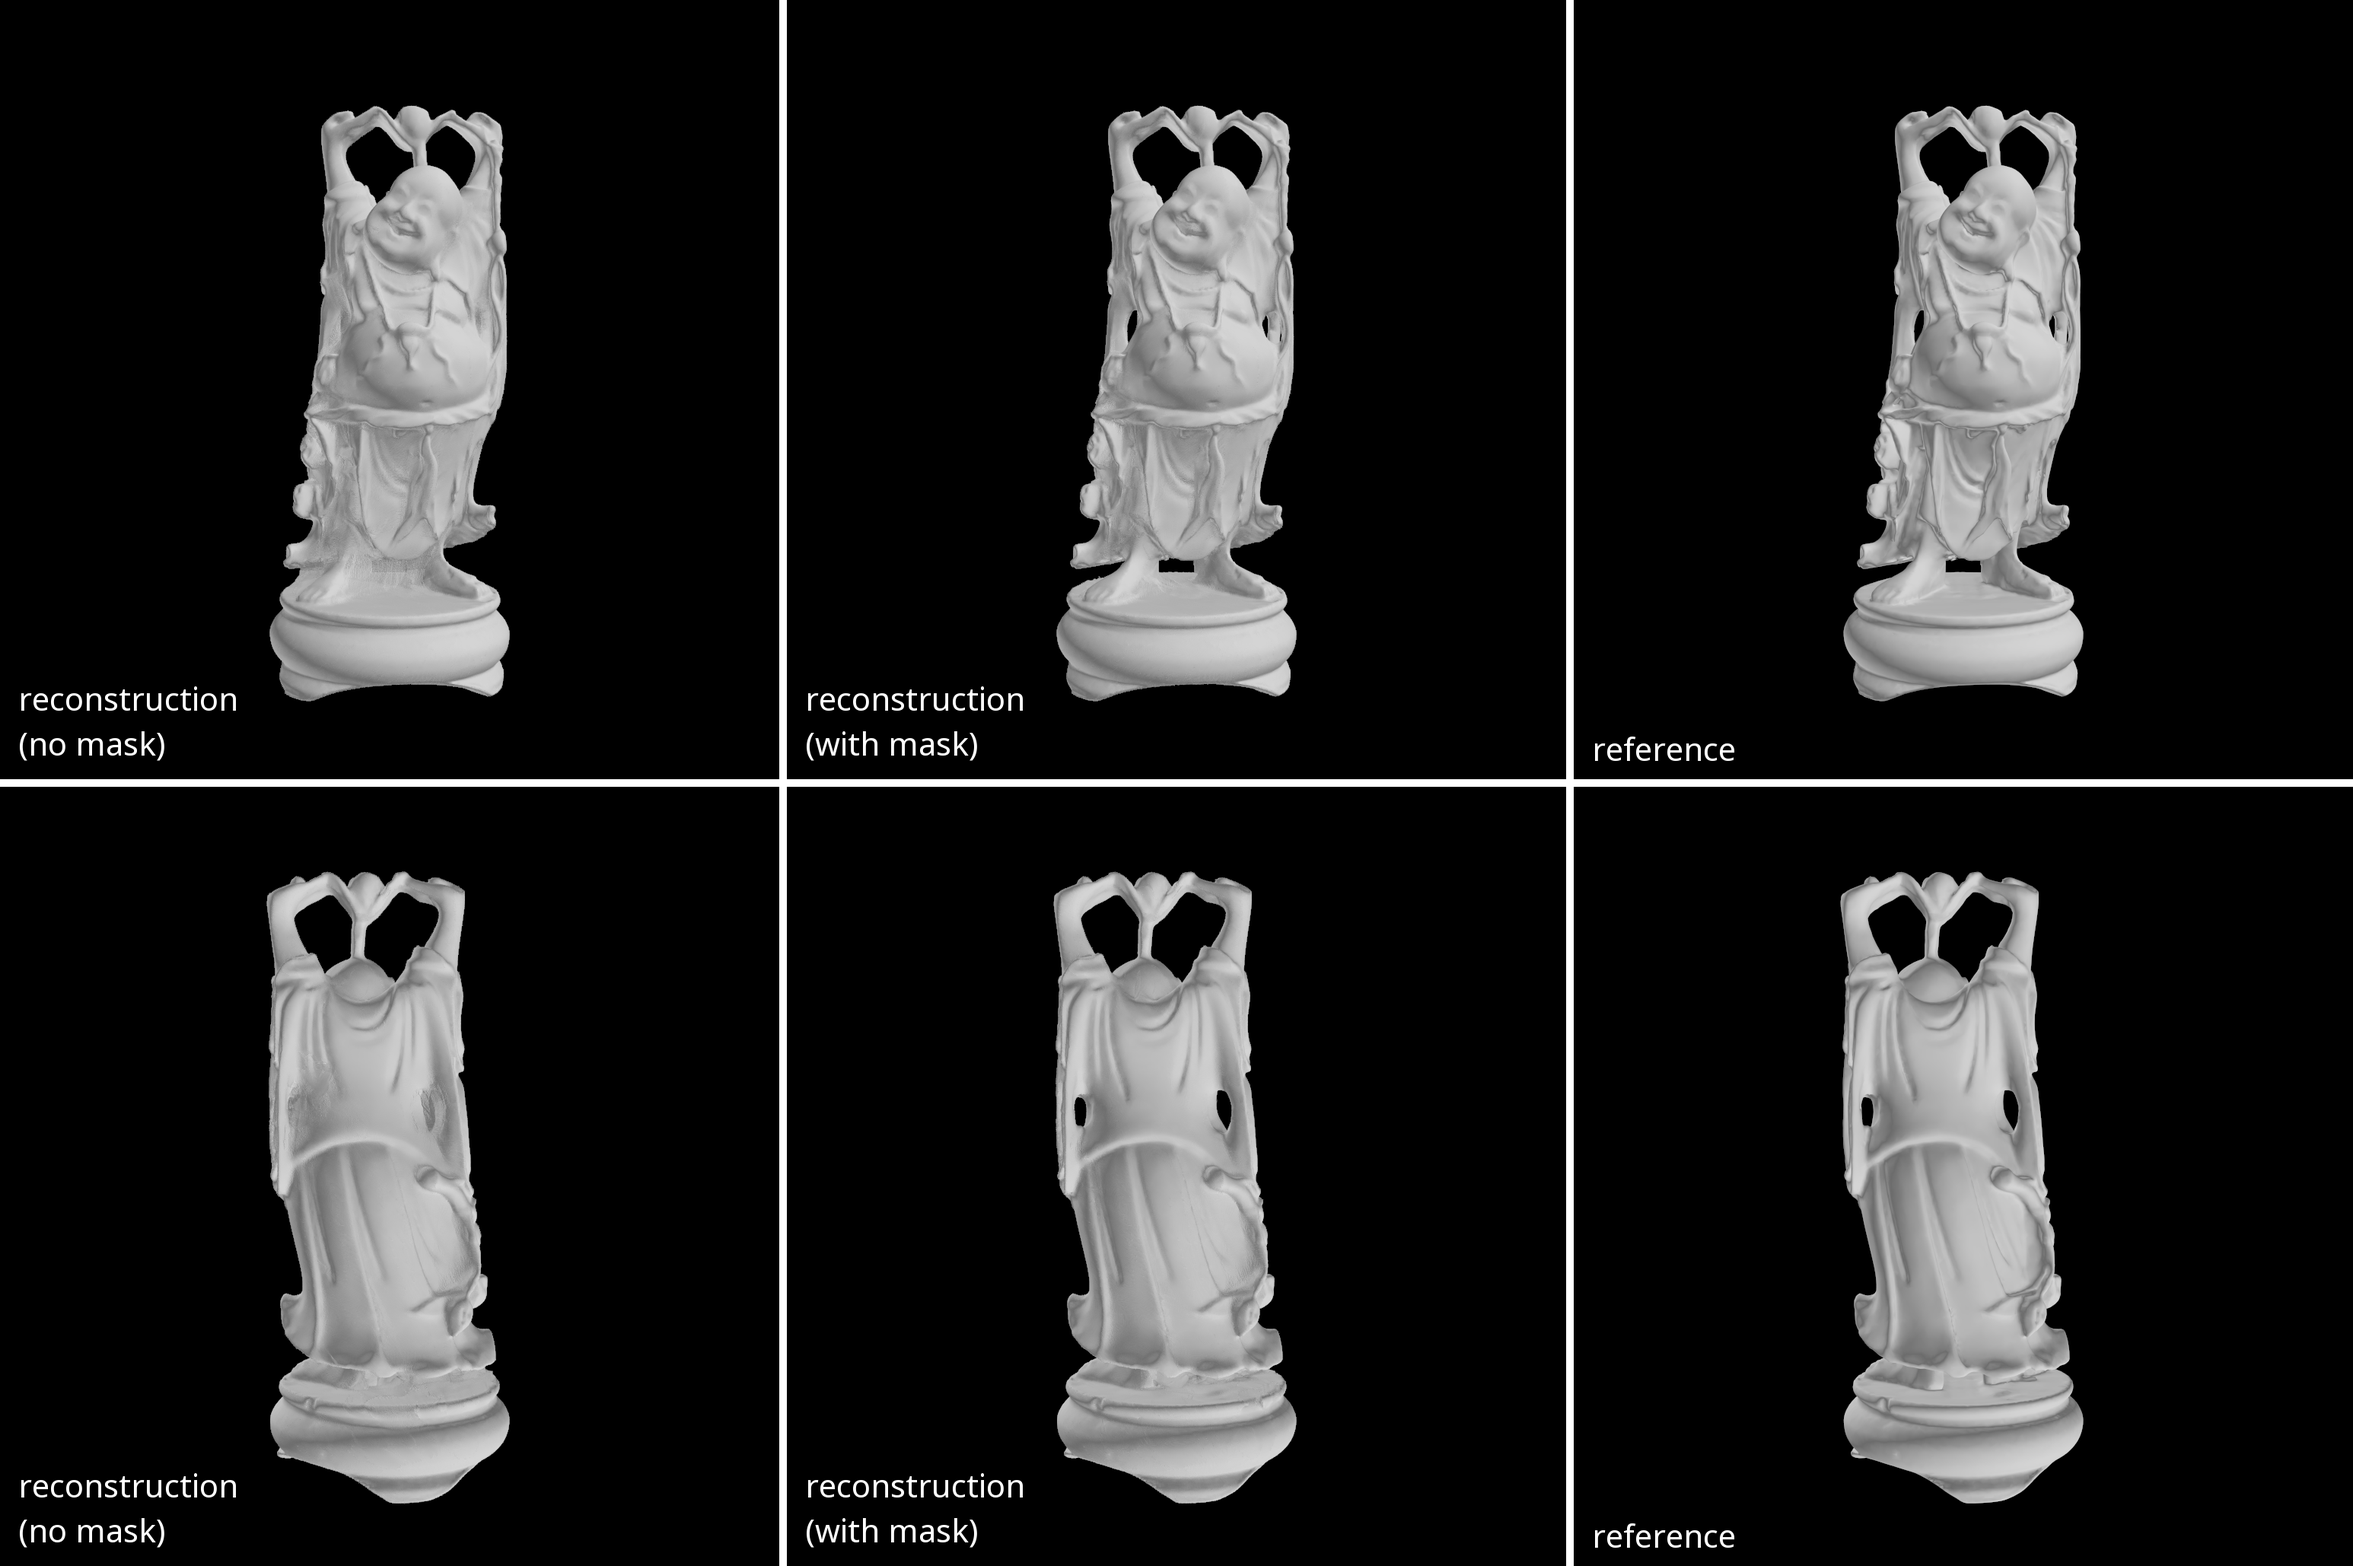
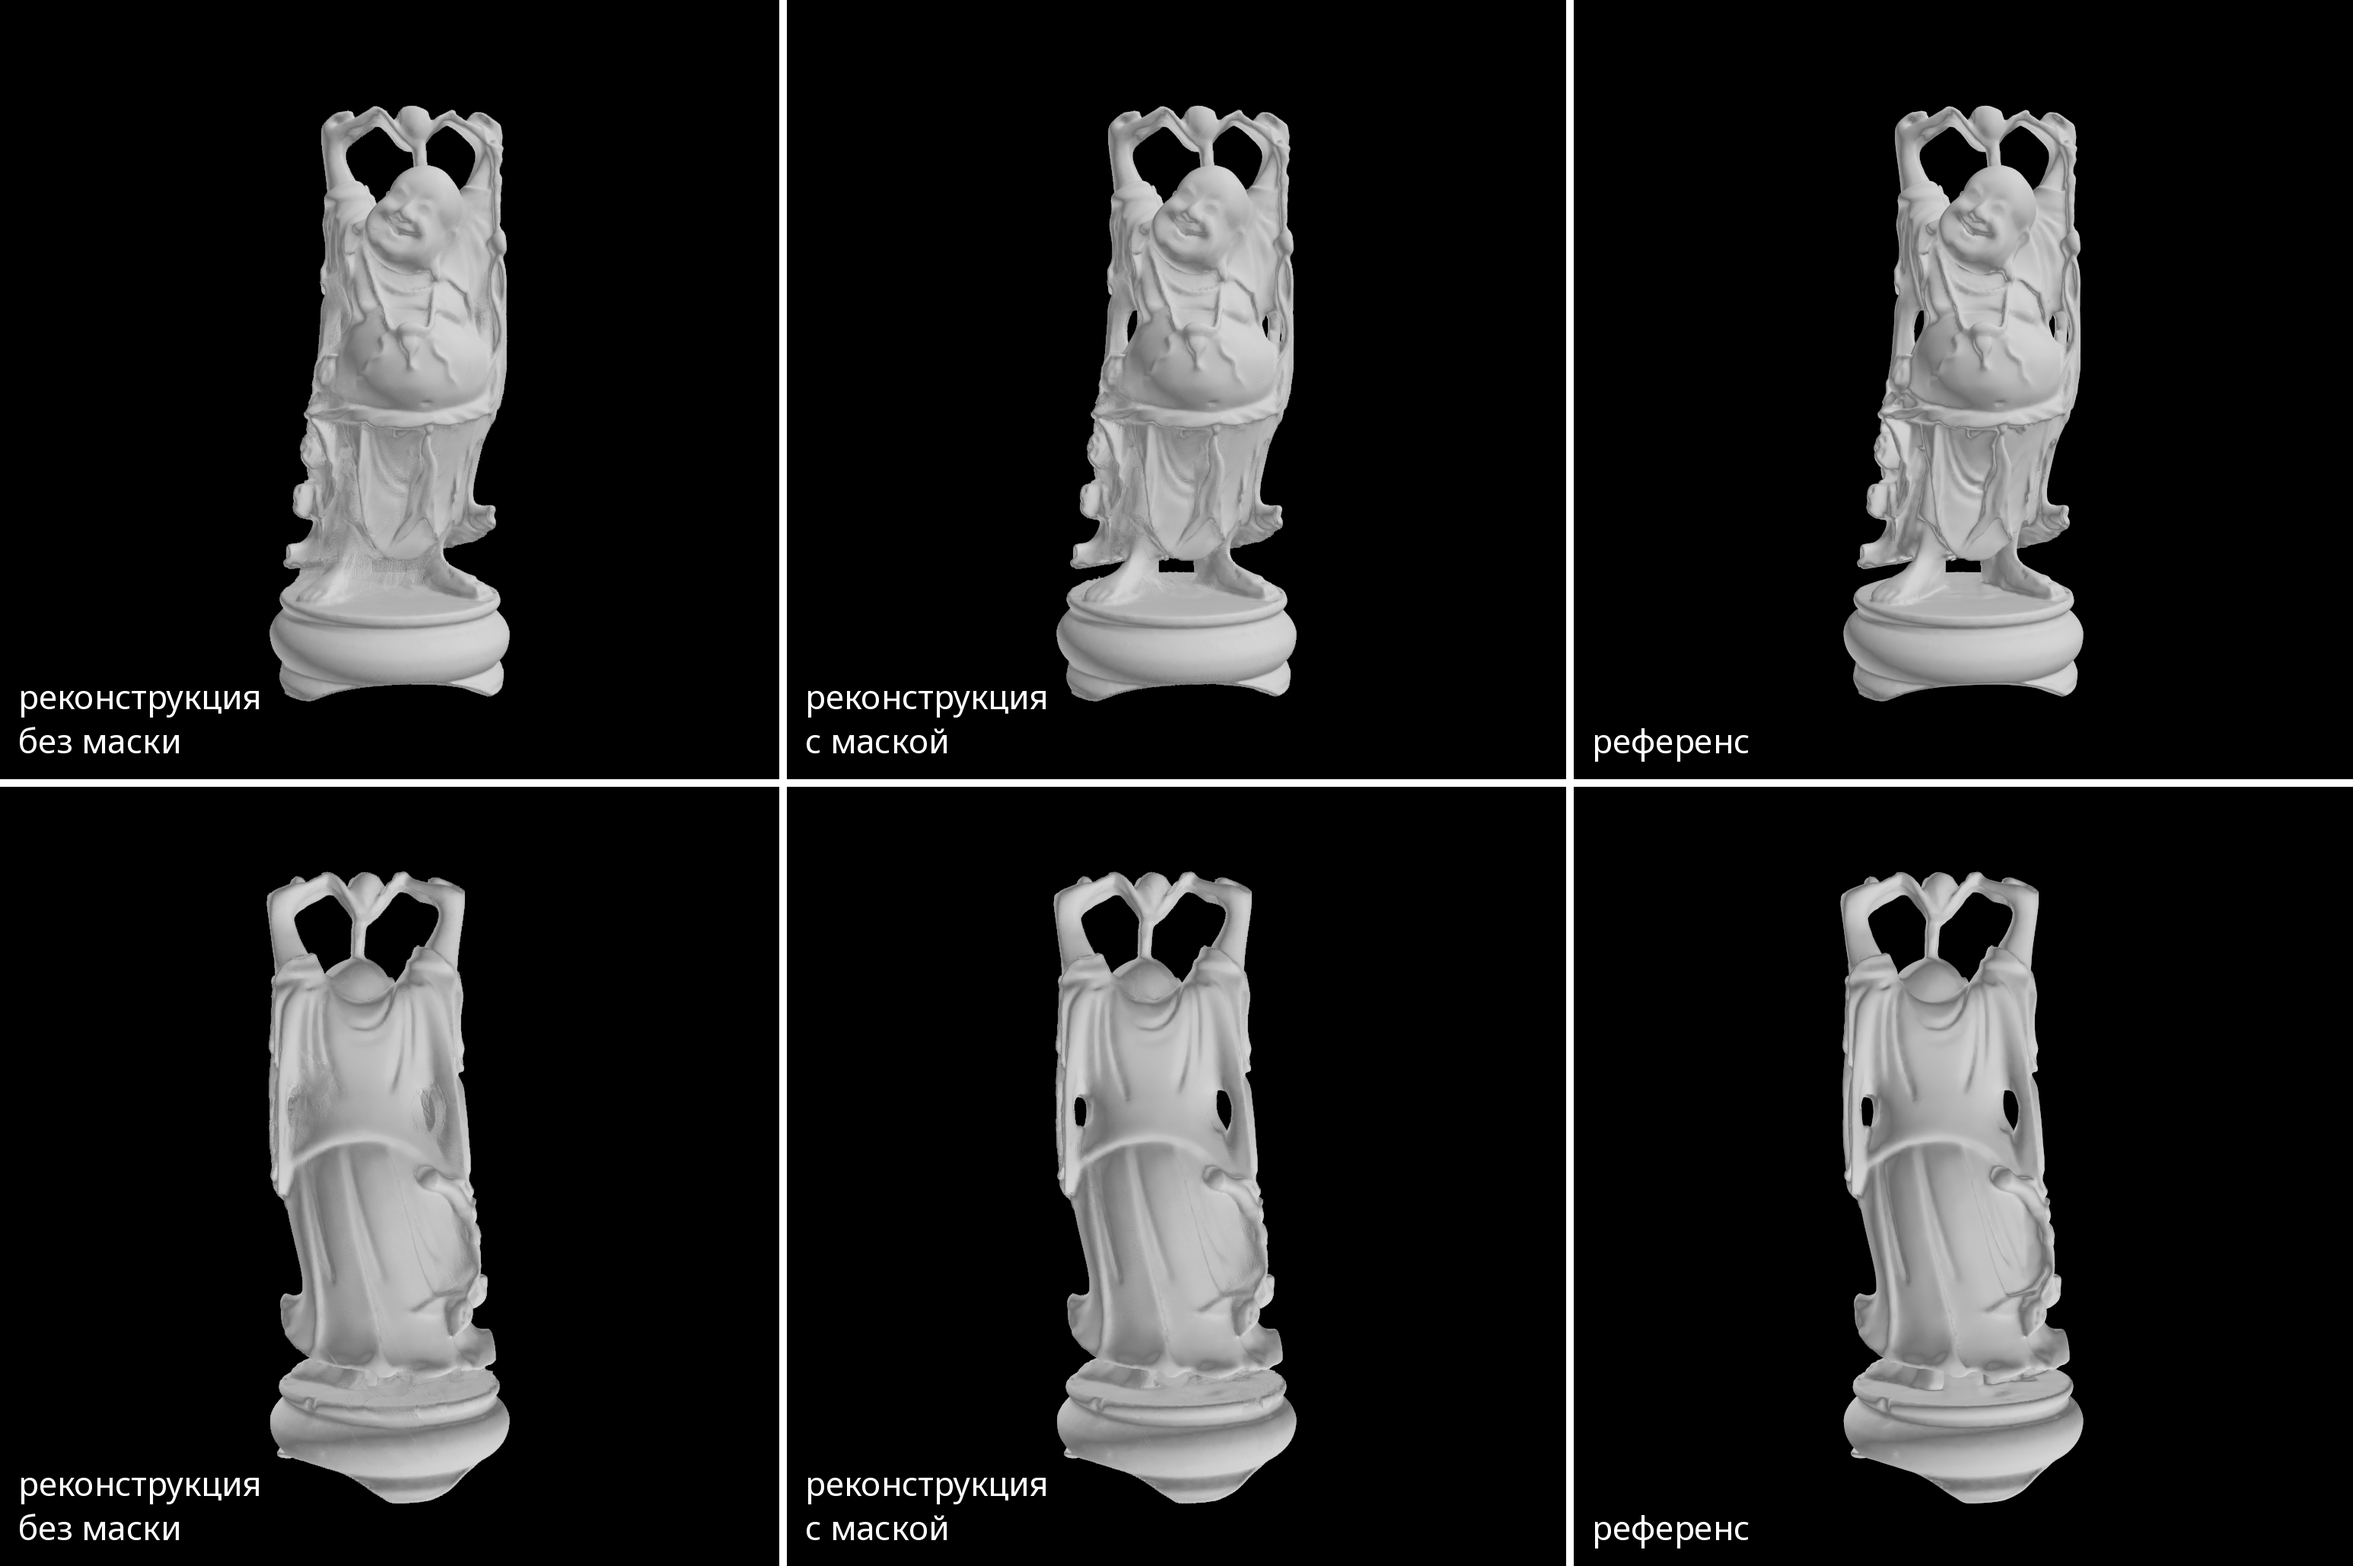
Русские подписи на коллажах с маской и разреживанием (рис. 9 и 10)

diff --git a/images/relabel_collages.py b/images/relabel_collages.py
@@ -1,0 +1,40 @@
+"""Russian labels on the collages of chapter 4 that have no source script (collage_mask.png, collage_sparsify.png):
+the English labels drawn in the bottom left corner of every 1024x1024 cell are painted over with the black background
+and the Russian ones are drawn with the same font (Noto Sans). The painted rectangles do not touch the models.
+The original images are in the git history of the report (commit 428c0c0). Usage: python relabel_collages.py
+"""
+from pathlib import Path
+
+from PIL import Image, ImageDraw, ImageFont
+
+OUT = Path(__file__).resolve().parent
+FONT = Path.home() / 'repos/papers/Труды ИСП РАН 2026/NotoSans-Regular.ttf'
+CELL, SEP = 1024, 10
+# image: (x extent of the painted rectangle in the cell, [labels per column, lines bottom to top in the same row])
+LABELS = {
+    'collage_mask.png': (340, [['без маски', 'реконструкция'], ['с маской', 'реконструкция'], ['референс']]),
+    'collage_sparsify.png': (1000, [['(разреживание между эпохами)', 'реконструкция'],
+                                    ['(разреживание и в течение эпохи)', 'реконструкция'], ['референс']]),
+}
+Y0, LINE, SIZE = 893, 58, 44   # top of the painted area in the cell, line pitch, font size (px)
+
+
+def main():
+    font = ImageFont.truetype(str(FONT), SIZE)
+    for name, (width, cols) in LABELS.items():
+        im = Image.open(OUT / name).convert('RGB')
+        dr = ImageDraw.Draw(im)
+        rows = (im.height + SEP) // (CELL + SEP)
+        for r in range(rows):
+            y = r * (CELL + SEP)
+            for c, lines in enumerate(cols):
+                x = c * (CELL + SEP)
+                dr.rectangle((x + 10, y + Y0, x + width, y + CELL - 1), fill='black')
+                for k, text in enumerate(lines):
+                    dr.text((x + 24, y + CELL - 24 - (k + 1) * LINE), text, font=font, fill='white')
+        im.save(OUT / name)
+        print('written', OUT / name)
+
+
+if __name__ == '__main__':
+    main()
